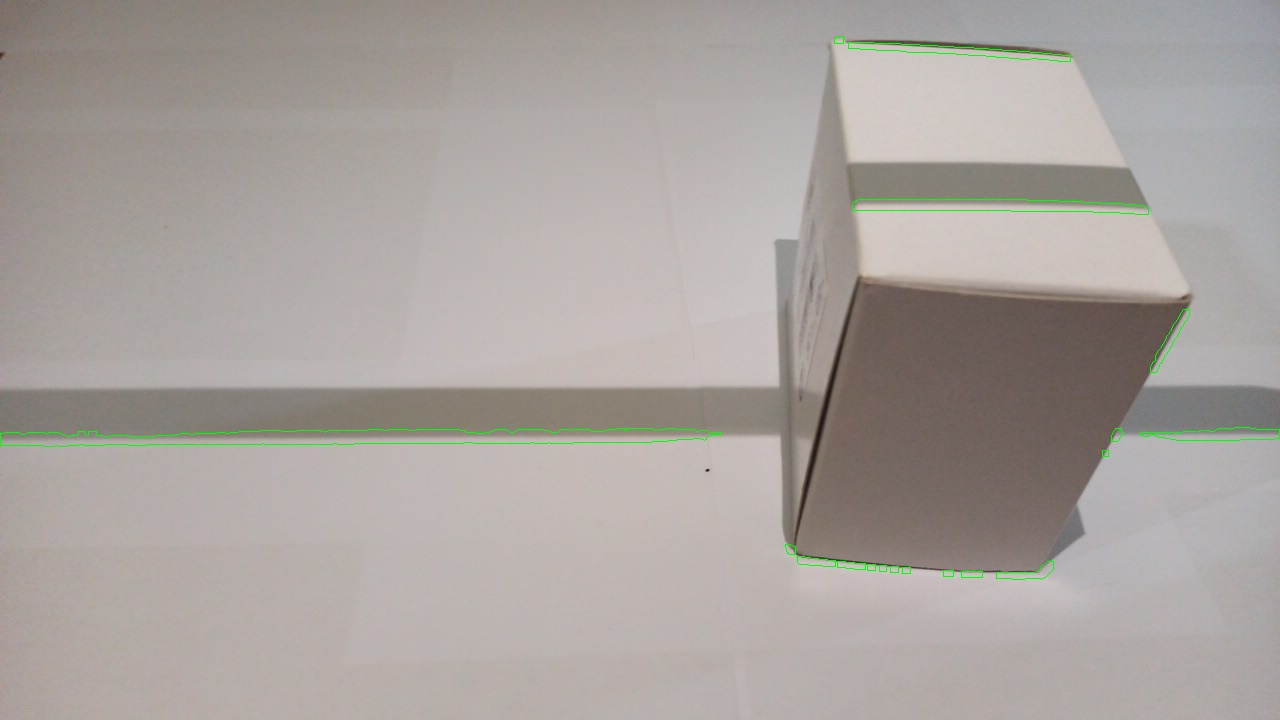
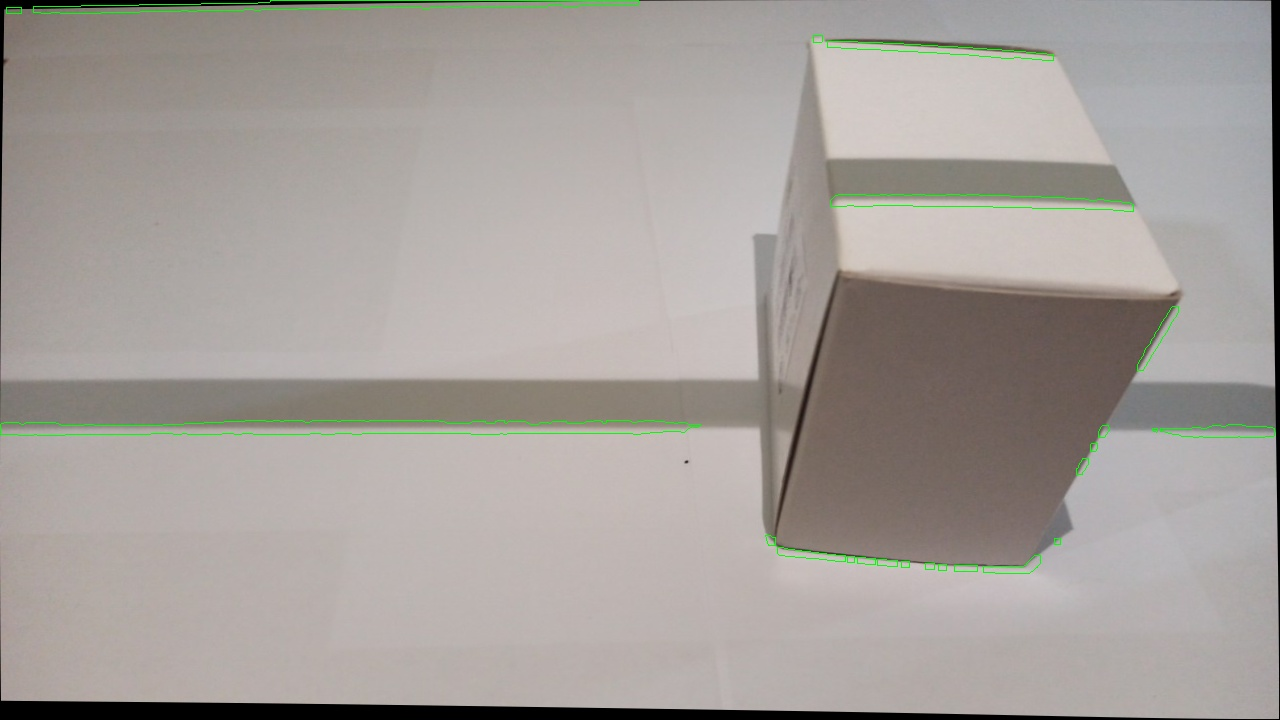
undistortion and reprojection error calculated after camera pose estimation

diff --git a/step2.py b/step2.py
@@ -41,6 +41,29 @@ def readIntrinsicParameters(pathIntrinsic):
 
 
 '''
+* param {objpoints} : relative object points
+* param {imgpoints}:  image points
+* param {mtx}: camera matrix
+* param {dist}: distortion parameters
+* param {rvecs}: rotation vectors
+* param {tvecs}: translation vectors
+* prints and calculates the reprojection error
+* return: void
+'''
+
+
+def reprojection_error(objpoints, imgpoints, mtx, dist, rvecs, tvecs):
+    mean_error = 0
+
+    for i in range(len(objpoints)):
+        imgpoints2, _ = cv.projectPoints(
+            objpoints[i], rvecs[i], tvecs[i], mtx, dist)
+        error = cv.norm(imgpoints[i], imgpoints2, cv.NORM_L2) / len(imgpoints2)
+        mean_error += error
+    print("Reprojection error= {}".format(mean_error / len(objpoints)))
+
+
+'''
 * param {img}: the image where the camera pose was calculated
 * param {corners}: the corners of the chessboard
 * param {imgpts}: the image points
@@ -78,12 +101,18 @@ def camera_position(step2Config, pathIntrinsic, patternSize, showSteps):
     objp[:, :2] = np.mgrid[0:patternSize[0],
                            0:patternSize[1]].T.reshape(-1, 2) * 22
 
+    objPoints = []
+    imgPoints = []
     # solvePnP requires camera calibraiton
     criteria = (cv.TERM_CRITERIA_EPS + cv.TERM_CRITERIA_MAX_ITER, 30, 0.0001)
     if ret == True:
+        objPoints.append(objp)
+
         corners2 = cv.cornerSubPix(gray, corners, (11, 11), (-1, -1), criteria)
         #ret, rvec, tvec = cv.solvePnP(objp, corners2, mtx, dist)
         ret, rvec, tvec, inliers = cv.solvePnPRansac(objp, corners2, mtx, dist)
+ 
+        imgPoints.append(corners) ## heere
 
         axis = np.float32([[3, 0, 0], [0, 3, 0], [0, 0, -3]]
                           ).reshape(-1, 3) * step2Config['Axis Size']
@@ -97,15 +126,15 @@ def camera_position(step2Config, pathIntrinsic, patternSize, showSteps):
 
         rotM = cv.Rodrigues(rvec)[0]
         real_word_position = -np.matrix(rotM).T * np.matrix(tvec)
-        position_normalized = np.linalg.inv(mtx) * real_word_position
+        #position_normalized = np.linalg.inv(mtx) * real_word_position
 
         print('real world position (X,Y,Z)= ({}, {}, {})'.format(
             real_word_position[0, 0], real_word_position[1, 0], real_word_position[2, 0]))
         # we can normalize the point: focal length = 1 and moves the origin to the centre of the image
-        print('normalize real world position (X,Y,Z)= ({}, {}, {})'.format(
-            position_normalized[0, 0], position_normalized[1, 0], position_normalized[2, 0]))
         print('projection matrix : ')
         print(getProjectionMatrix(mtx, rvec, tvec))
-        return (position_normalized, getProjectionMatrix(mtx, rvec, tvec))
+
+        reprojection_error(objPoints, imgPoints, mtx, dist, [rvec], [tvec])
+        return (getProjectionMatrix(mtx, rvec, tvec), mtx, dist)
     else:
         print('could not find position')

diff --git a/step1.py b/step1.py
@@ -29,29 +29,6 @@ def save_intrinsicParameters(mtx, dist, PATH_SAVE_INTRINSIC_PARAMS):
 
 
 '''
-* param {objpoints} : relative object points
-* param {imgpoints}:  image points
-* param {mtx}: camera matrix
-* param {dist}: distortion parameters
-* param {rvecs}: rotation vectors
-* param {tvecs}: translation vectors
-* prints and calculates the reprojection error
-* return: void
-'''
-
-
-def reprojection_error(objpoints, imgpoints, mtx, dist, rvecs, tvecs):
-    mean_error = 0
-
-    for i in range(len(objpoints)):
-        imgpoints2, _ = cv.projectPoints(
-            objpoints[i], rvecs[i], tvecs[i], mtx, dist)
-        error = cv.norm(imgpoints[i], imgpoints2, cv.NORM_L2) / len(imgpoints2)
-        mean_error += error
-    print("Reprojection error= {}".format(mean_error / len(objpoints)))
-
-
-'''
 * param {cameraMatrix} : the camera matrix
 * param {distCoeffs}: distortion coefficient of the camera 
 * prints the camera matrix and distortion coefficients of the camera
@@ -129,8 +106,7 @@ def camera_calibration(step1Config, showSteps):
         retval, cameraMatrix, distCoeffs, rvecs, tvecs = cv.calibrateCamera(objPoints, imgPoints,
                                                                             step1Config['Chessboard Pattern Size'], None, None)
         print_intrinsic_parameters(cameraMatrix, distCoeffs)
-        reprojection_error(objPoints, imgPoints,
-                           cameraMatrix, distCoeffs, rvecs, tvecs)
+
 
         save_intrinsicParameters(
             cameraMatrix, distCoeffs, step1Config['Path Save Intrisic Params'])

diff --git a/project.py b/project.py
@@ -111,6 +111,18 @@ def validateArgs(args):
 
     return parseConfig(args.Config, False)
 
+'''
+* param {img}: image to undistort
+* param {mtx}: camera matrix
+* param {dist}: distortion parameters
+* returns the image undistorted
+'''
+def undistort(img, mtx, dist):
+    h,  w = img.shape[:2]
+    newcameramtx, roi = cv2.getOptimalNewCameraMatrix(mtx, dist, (w,h), 1, (w,h))
+    dst = cv2.undistort(img, mtx, dist, None, newcameramtx)
+    return dst
+
 
 def main():
     parser = argparse.ArgumentParser(
@@ -135,10 +147,12 @@ def main():
         camera_calibration(step1Config, args.steps)
         pathIntrinsic = step1Config['Path Save Intrisic Params']
 
-    position_normalized, projection_matrix = camera_position(
+    projection_matrix, mtx, dist= camera_position(
         step2Config, pathIntrinsic, step1Config['Chessboard Pattern Size'], args.steps)
 
     image = cv2.imread(config['Image'])
+    print('here')
+    image = undistort(image, mtx, dist)
     shadowPoints = []
 
     if args.version2 is None:
